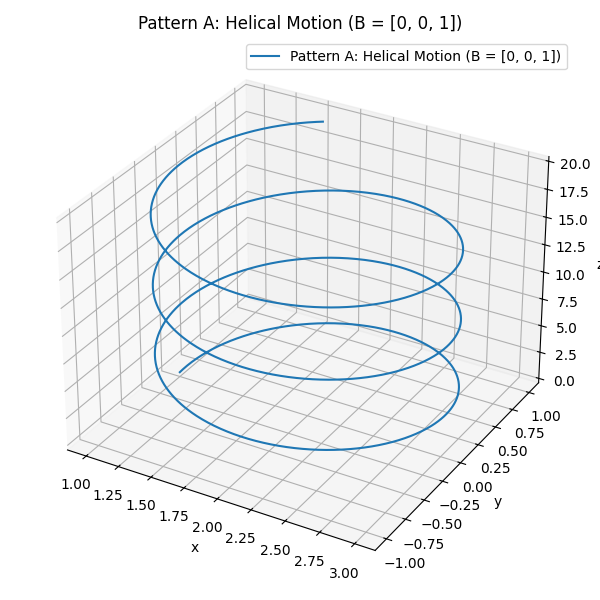
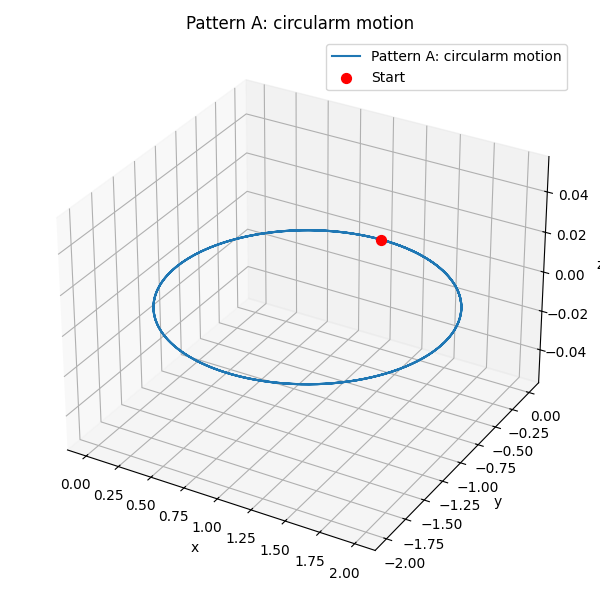
save

diff --git a/introduce_electric_filed.py b/introduce_electric_filed.py
@@ -1,26 +1,27 @@
 import numpy as np
 import matplotlib.pyplot as plt
 
-# 物理定数
+# constant
 q = 1.0
 m = 1.0
 dt = 0.01
 T = 20
 N = int(T / dt)
 
-# 電場（全パターン共通）
-E = np.array([5.0, 0.0, 0.0])  # x方向の電場
+# electric field
+E = np.array([1.0, 0.0, 0.0])
 
 
-# ローレンツ力による運動方程式（EとBの両方）
+# EOM by Lorentz force
 def derivatives(state: np.ndarray, B: np.ndarray, E: np.ndarray) -> np.ndarray:
     x, y, z, vx, vy, vz = state
     v = np.array([vx, vy, vz])
-    a = (q / m) * (E + np.cross(v, B))  # E項を追加
+    # add E term
+    a = (q / m) * (E + np.cross(v, B))
+
     return np.concatenate((v, a))
 
 
-# Runge-Kutta法による時間発展
 def rk4(
     state0: np.ndarray, dt: float, N: int, B: np.ndarray, E: np.ndarray
 ) -> np.ndarray:
@@ -37,19 +38,15 @@ def rk4(
     return states
 
 
-# 描画
 def plot_trajectory(states: np.ndarray, title: str):
     fig = plt.figure(figsize=(6, 6))
     ax = fig.add_subplot(111, projection="3d")
 
-    # 軌道描画
     ax.plot(states[:, 0], states[:, 1], states[:, 2], label=title, color="blue")
 
-    # 出発点を赤い点で表示
     start = states[0]
     ax.scatter(start[0], start[1], start[2], color="red", s=50, label="Start")
 
-    # 軸ラベル・タイトルなど
     ax.set_xlabel("x")
     ax.set_ylabel("y")
     ax.set_zlabel("z")
@@ -60,20 +57,20 @@ def plot_trajectory(states: np.ndarray, title: str):
     plt.show()
 
 
-# Pattern A
-state_A = np.array([1.0, 0.0, 0.0, 0.0, 1.0, 1.0])
+# pattern A
+state_A = np.array([1.0, 0.0, 0.0, 1.0, 0.0, 0.0])
 B_A = np.array([0.0, 0.0, 1.0])
 states_A = rk4(state_A, dt, N, B_A, E)
-plot_trajectory(states_A, "Pattern A + E field")
+plot_trajectory(states_A, "PatternA + Efield")
 
-# Pattern B
-state_B = np.array([1.0, 0.0, 0.0, 0.0, 0.0, 1.0])
-B_B = np.array([0.0, 1.0, 0.0])
+# pattern B
+state_B = np.array([1.0, 0.0, 0.0, 1.0, 1.0, 1.0])
+B_B = np.array([0.0, 0.0, 1.0])
 states_B = rk4(state_B, dt, N, B_B, E)
-plot_trajectory(states_B, "Pattern B + E field")
+plot_trajectory(states_B, "PatternB + Efield")
 
-# Pattern C
-state_C = np.array([1.0, 0.0, 0.0, 0.0, 1.0, 0.0])
+# pattern C
+state_C = np.array([1.0, 0.0, 0.0, 1.0, 1.0, 1.0])
 B_C = np.array([1.0, 1.0, 1.0])
 states_C = rk4(state_C, dt, N, B_C, E)
-plot_trajectory(states_C, "Pattern C + E field")
+plot_trajectory(states_C, "PatternC + Efield")

diff --git a/motion_in_uniform_magnetic_field.py b/motion_in_uniform_magnetic_field.py
@@ -69,6 +69,10 @@ def plot_trajectory(states: np.ndarray, title: str):
     ax.set_xlabel("x")
     ax.set_ylabel("y")
     ax.set_zlabel("z")
+
+    start = states[0]
+    ax.scatter(start[0], start[1], start[2], color="red", s=50, label="Start")
+
     ax.set_title(title)
     ax.legend()
     plt.tight_layout()
@@ -76,19 +80,19 @@ def plot_trajectory(states: np.ndarray, title: str):
 
 
 # pattern A: Initial velocity has components in xy and z directions → herical motion
-state_A = np.array([1.0, 0.0, 0.0, 0.0, 1.0, 1.0])
+state_A = np.array([1.0, 0.0, 0.0, 1.0, 0.0, 0.0])
 B_A = np.array([0.0, 0.0, 1.0])
 states_A = rk4(state_A, dt, N, B_A)
-plot_trajectory(states_A, "Pattern A: Helical Motion (B = [0, 0, 1])")
+plot_trajectory(states_A, "Pattern A: circularm motion")
 
 # pattern B: Magnetic field is in y direction → Motion is developed in x-z plane
-state_B = np.array([1.0, 0.0, 0.0, 0.0, 0.0, 1.0])
-B_B = np.array([0.0, 1.0, 0.0])
+state_B = np.array([1.0, 0.0, 0.0, 1.0, 1.0, 1.0])
+B_B = np.array([0.0, 0.0, 1.0])
 states_B = rk4(state_B, dt, N, B_B)
-plot_trajectory(states_B, "Pattern B: Motion in xz-plane (B = [0, 1, 0])")
+plot_trajectory(states_B, "Pattern B: herical motion")
 
 # pattern C: Magnetic field in any direction (x=y=z) → complex 3-D motion
-state_C = np.array([1.0, 0.0, 0.0, 0.0, 1.0, 0.0])
+state_C = np.array([1.0, 0.0, 0.0, 1.0, 1.0, 1.0])
 B_C = np.array([1.0, 1.0, 1.0])
 states_C = rk4(state_C, dt, N, B_C)
-plot_trajectory(states_C, "Pattern C: 3D Helical Motion (B = [1, 1, 1])")
+plot_trajectory(states_C, "Pattern C: straight motion")
